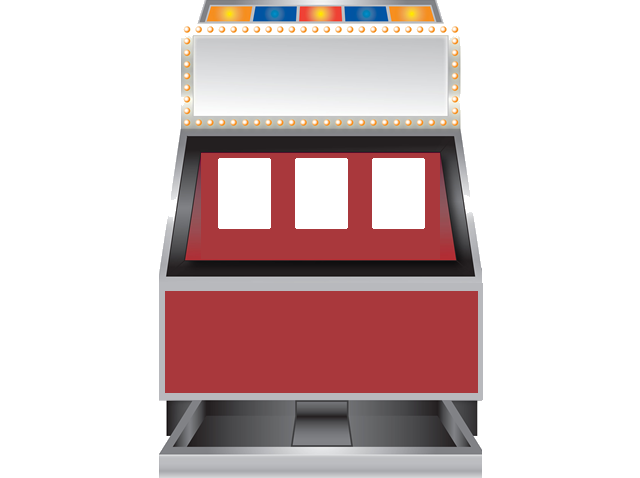
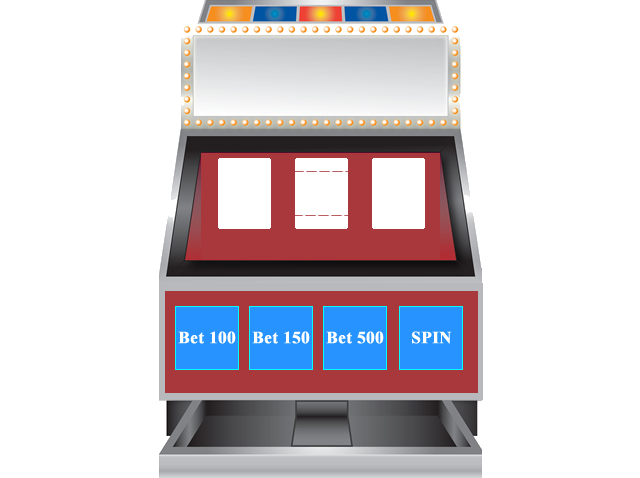
reels function added

Changed region(s): [[0.25, 0.6151, 0.75, 0.7908]]

diff --git a/Scripts/scenes/slotmachine.ts b/Scripts/scenes/slotmachine.ts
@@ -2,11 +2,20 @@
 module scenes {
     export class SlotMachine extends objects.Scene {
         //PRIVATE INSTANCE VARIABLES ++++++++++++
-       private _backgroundImage: createjs.Bitmap;
-       private _Bet100Button: objects.Button;
-       private _Bet150Button: objects.Button;
-       private _Bet500Button: objects.Button;
-       private _SpinButton: objects.Button;
+        private _backgroundImage: createjs.Bitmap;
+        private _Bet100Button: objects.Button;
+        private _Bet150Button: objects.Button;
+        private _Bet500Button: objects.Button;
+        private _SpinButton: objects.Button;
+
+        private _grapes = 0;
+        private _bananas = 0;
+        private _oranges = 0;
+        private _cherries = 0;
+        private _bars = 0;
+        private _bells = 0;
+        private _sevens = 0;
+        private _blanks = 0;
         
         // CONSTRUCTOR ++++++++++++++++++++++
         constructor() {
@@ -19,35 +28,35 @@ module scenes {
         public start(): void {    
             // add backgroundimage to the scene
             
-            this._backgroundImage= new createjs.Bitmap(assets.getResult("SlotMachine"));
+            this._backgroundImage = new createjs.Bitmap(assets.getResult("SlotMachine"));
             this.addChild(this._backgroundImage);
             
             // adding bet 100 button to the scene
             
-            this._Bet100Button= new objects.Button("Bet100Button",175,306,false);
+            this._Bet100Button = new objects.Button("Bet100Button", 175, 306, false);
             this.addChild(this._Bet100Button);
-            this._Bet100Button.on("click",this._Bet100ButtonClick,this );
+            this._Bet100Button.on("click", this._Bet100ButtonClick, this);
             
             
             // adding bet 150 button to the scene
             
-            this._Bet150Button= new objects.Button("Bet150Button",249,306,false);
+            this._Bet150Button = new objects.Button("Bet150Button", 249, 306, false);
             this.addChild(this._Bet150Button);
-            this._Bet150Button.on("click",this._Bet150ButtonClick,this );
+            this._Bet150Button.on("click", this._Bet150ButtonClick, this);
             
             
             // adding bet 500 button to the scene
             
-            this._Bet500Button= new objects.Button("Bet500Button",323,306,false);
+            this._Bet500Button = new objects.Button("Bet500Button", 323, 306, false);
             this.addChild(this._Bet500Button);
-            this._Bet500Button.on("click",this._Bet500ButtonClick,this );
+            this._Bet500Button.on("click", this._Bet500ButtonClick, this);
             
             
             // adding spin button to the scene
             
-            this._SpinButton= new objects.Button("SpinButton",323,306,false);
+            this._SpinButton = new objects.Button("SpinButton", 399, 306, false);
             this.addChild(this._SpinButton);
-            this._SpinButton.on("click",this._SpinButtonClick,this );
+            this._SpinButton.on("click", this._SpinButtonClick, this);
             
             
             // add this scene to the global stage container
@@ -59,28 +68,82 @@ module scenes {
 
         }
         
+        //PRIVATE METHODS
+        /* Utility function to check if a value falls within a range of bounds */
+        private _checkRange(value: number, lowerBounds: number, upperBounds: number): number {
+            return (value >= lowerBounds && value <= upperBounds) ? value : -1;
+        }
+        
+        /* When this function is called it determines the betLine results.
+        e.g. Bar - Orange - Banana */
+        private _reels(): string[] {
+            var betLine = [" ", " ", " "];
+            var outCome = [0, 0, 0];
+
+            for (var spin = 0; spin < 3; spin++) {
+                outCome[spin] = Math.floor((Math.random() * 65) + 1);
+                switch (outCome[spin]) {
+                    case this._checkRange(outCome[spin], 1, 27):  // 41.5% probability
+                        betLine[spin] = "blank";
+                        this._blanks++;
+                        break;
+                    case this._checkRange(outCome[spin], 28, 37): // 15.4% probability
+                        betLine[spin] = "Grapes";
+                        this._grapes++;
+                        break;
+                    case this._checkRange(outCome[spin], 38, 46): // 13.8% probability
+                        betLine[spin] = "Banana";
+                        this._bananas++;
+                        break;
+                    case this._checkRange(outCome[spin], 47, 54): // 12.3% probability
+                        betLine[spin] = "Orange";
+                        this._oranges++;
+                        break;
+                    case this._checkRange(outCome[spin], 55, 59): //  7.7% probability
+                        betLine[spin] = "Cherry";
+                        this._cherries++;
+                        break;
+                    case this._checkRange(outCome[spin], 60, 62): //  4.6% probability
+                        betLine[spin] = "Bar";
+                        this._bars++;
+                        break;
+                    case this._checkRange(outCome[spin], 63, 64): //  3.1% probability
+                        betLine[spin] = "Bell";
+                        this._bells++;
+                        break;
+                    case this._checkRange(outCome[spin], 65, 65): //  1.5% probability
+                        betLine[spin] = "Seven";
+                        this._sevens++;
+                        break;
+                }
+            }
+            return betLine;
+        }
+
+        
         
         //EVENT HANDLERS ++++++++++++++++++++
-        private _Bet100ButtonClick(event:createjs.MouseEvent):void{
+        private _Bet100ButtonClick(event: createjs.MouseEvent): void {
             console.log("bet 100 credited");
-            
+
         }
-        
-                private _Bet150ButtonClick(event:createjs.MouseEvent):void{
+
+        private _Bet150ButtonClick(event: createjs.MouseEvent): void {
             console.log("bet 150 credited");
-            
+
         }
-        
-                private _Bet500ButtonClick(event:createjs.MouseEvent):void{
+
+        private _Bet500ButtonClick(event: createjs.MouseEvent): void {
             console.log("bet 500 credited");
-            
+
         }
-        
-        private _SpinButtonClick(event:createjs.MouseEvent):void{
+
+        private _SpinButtonClick(event: createjs.MouseEvent): void {
             console.log("Spin the reels");
-            
+            console.log(this._reels());
+
         }
     }
-    
-    
+
+
 }

diff --git a/Scripts/scenes/slotmachine.js b/Scripts/scenes/slotmachine.js
@@ -11,6 +11,14 @@ var scenes;
         // CONSTRUCTOR ++++++++++++++++++++++
         function SlotMachine() {
             _super.call(this);
+            this._grapes = 0;
+            this._bananas = 0;
+            this._oranges = 0;
+            this._cherries = 0;
+            this._bars = 0;
+            this._bells = 0;
+            this._sevens = 0;
+            this._blanks = 0;
         }
         // PUBLIC METHODS +++++++++++++++++++++
         // Start Method
@@ -31,7 +39,7 @@ var scenes;
             this.addChild(this._Bet500Button);
             this._Bet500Button.on("click", this._Bet500ButtonClick, this);
             // adding spin button to the scene
-            this._SpinButton = new objects.Button("SpinButton", 323, 306, false);
+            this._SpinButton = new objects.Button("SpinButton", 399, 306, false);
             this.addChild(this._SpinButton);
             this._SpinButton.on("click", this._SpinButtonClick, this);
             // add this scene to the global stage container
@@ -39,6 +47,55 @@ var scenes;
         };
         // SLOT_MACHINE Scene updates here
         SlotMachine.prototype.update = function () {
+        };
+        //PRIVATE METHODS
+        /* Utility function to check if a value falls within a range of bounds */
+        SlotMachine.prototype._checkRange = function (value, lowerBounds, upperBounds) {
+            return (value >= lowerBounds && value <= upperBounds) ? value : -1;
+        };
+        /* When this function is called it determines the betLine results.
+        e.g. Bar - Orange - Banana */
+        SlotMachine.prototype._reels = function () {
+            var betLine = [" ", " ", " "];
+            var outCome = [0, 0, 0];
+            for (var spin = 0; spin < 3; spin++) {
+                outCome[spin] = Math.floor((Math.random() * 65) + 1);
+                switch (outCome[spin]) {
+                    case this._checkRange(outCome[spin], 1, 27):
+                        betLine[spin] = "blank";
+                        this._blanks++;
+                        break;
+                    case this._checkRange(outCome[spin], 28, 37):
+                        betLine[spin] = "Grapes";
+                        this._grapes++;
+                        break;
+                    case this._checkRange(outCome[spin], 38, 46):
+                        betLine[spin] = "Banana";
+                        this._bananas++;
+                        break;
+                    case this._checkRange(outCome[spin], 47, 54):
+                        betLine[spin] = "Orange";
+                        this._oranges++;
+                        break;
+                    case this._checkRange(outCome[spin], 55, 59):
+                        betLine[spin] = "Cherry";
+                        this._cherries++;
+                        break;
+                    case this._checkRange(outCome[spin], 60, 62):
+                        betLine[spin] = "Bar";
+                        this._bars++;
+                        break;
+                    case this._checkRange(outCome[spin], 63, 64):
+                        betLine[spin] = "Bell";
+                        this._bells++;
+                        break;
+                    case this._checkRange(outCome[spin], 65, 65):
+                        betLine[spin] = "Seven";
+                        this._sevens++;
+                        break;
+                }
+            }
+            return betLine;
         };
         //EVENT HANDLERS ++++++++++++++++++++
         SlotMachine.prototype._Bet100ButtonClick = function (event) {
@@ -52,6 +109,7 @@ var scenes;
         };
         SlotMachine.prototype._SpinButtonClick = function (event) {
             console.log("Spin the reels");
+            console.log(this._reels());
         };
         return SlotMachine;
     })(objects.Scene);
